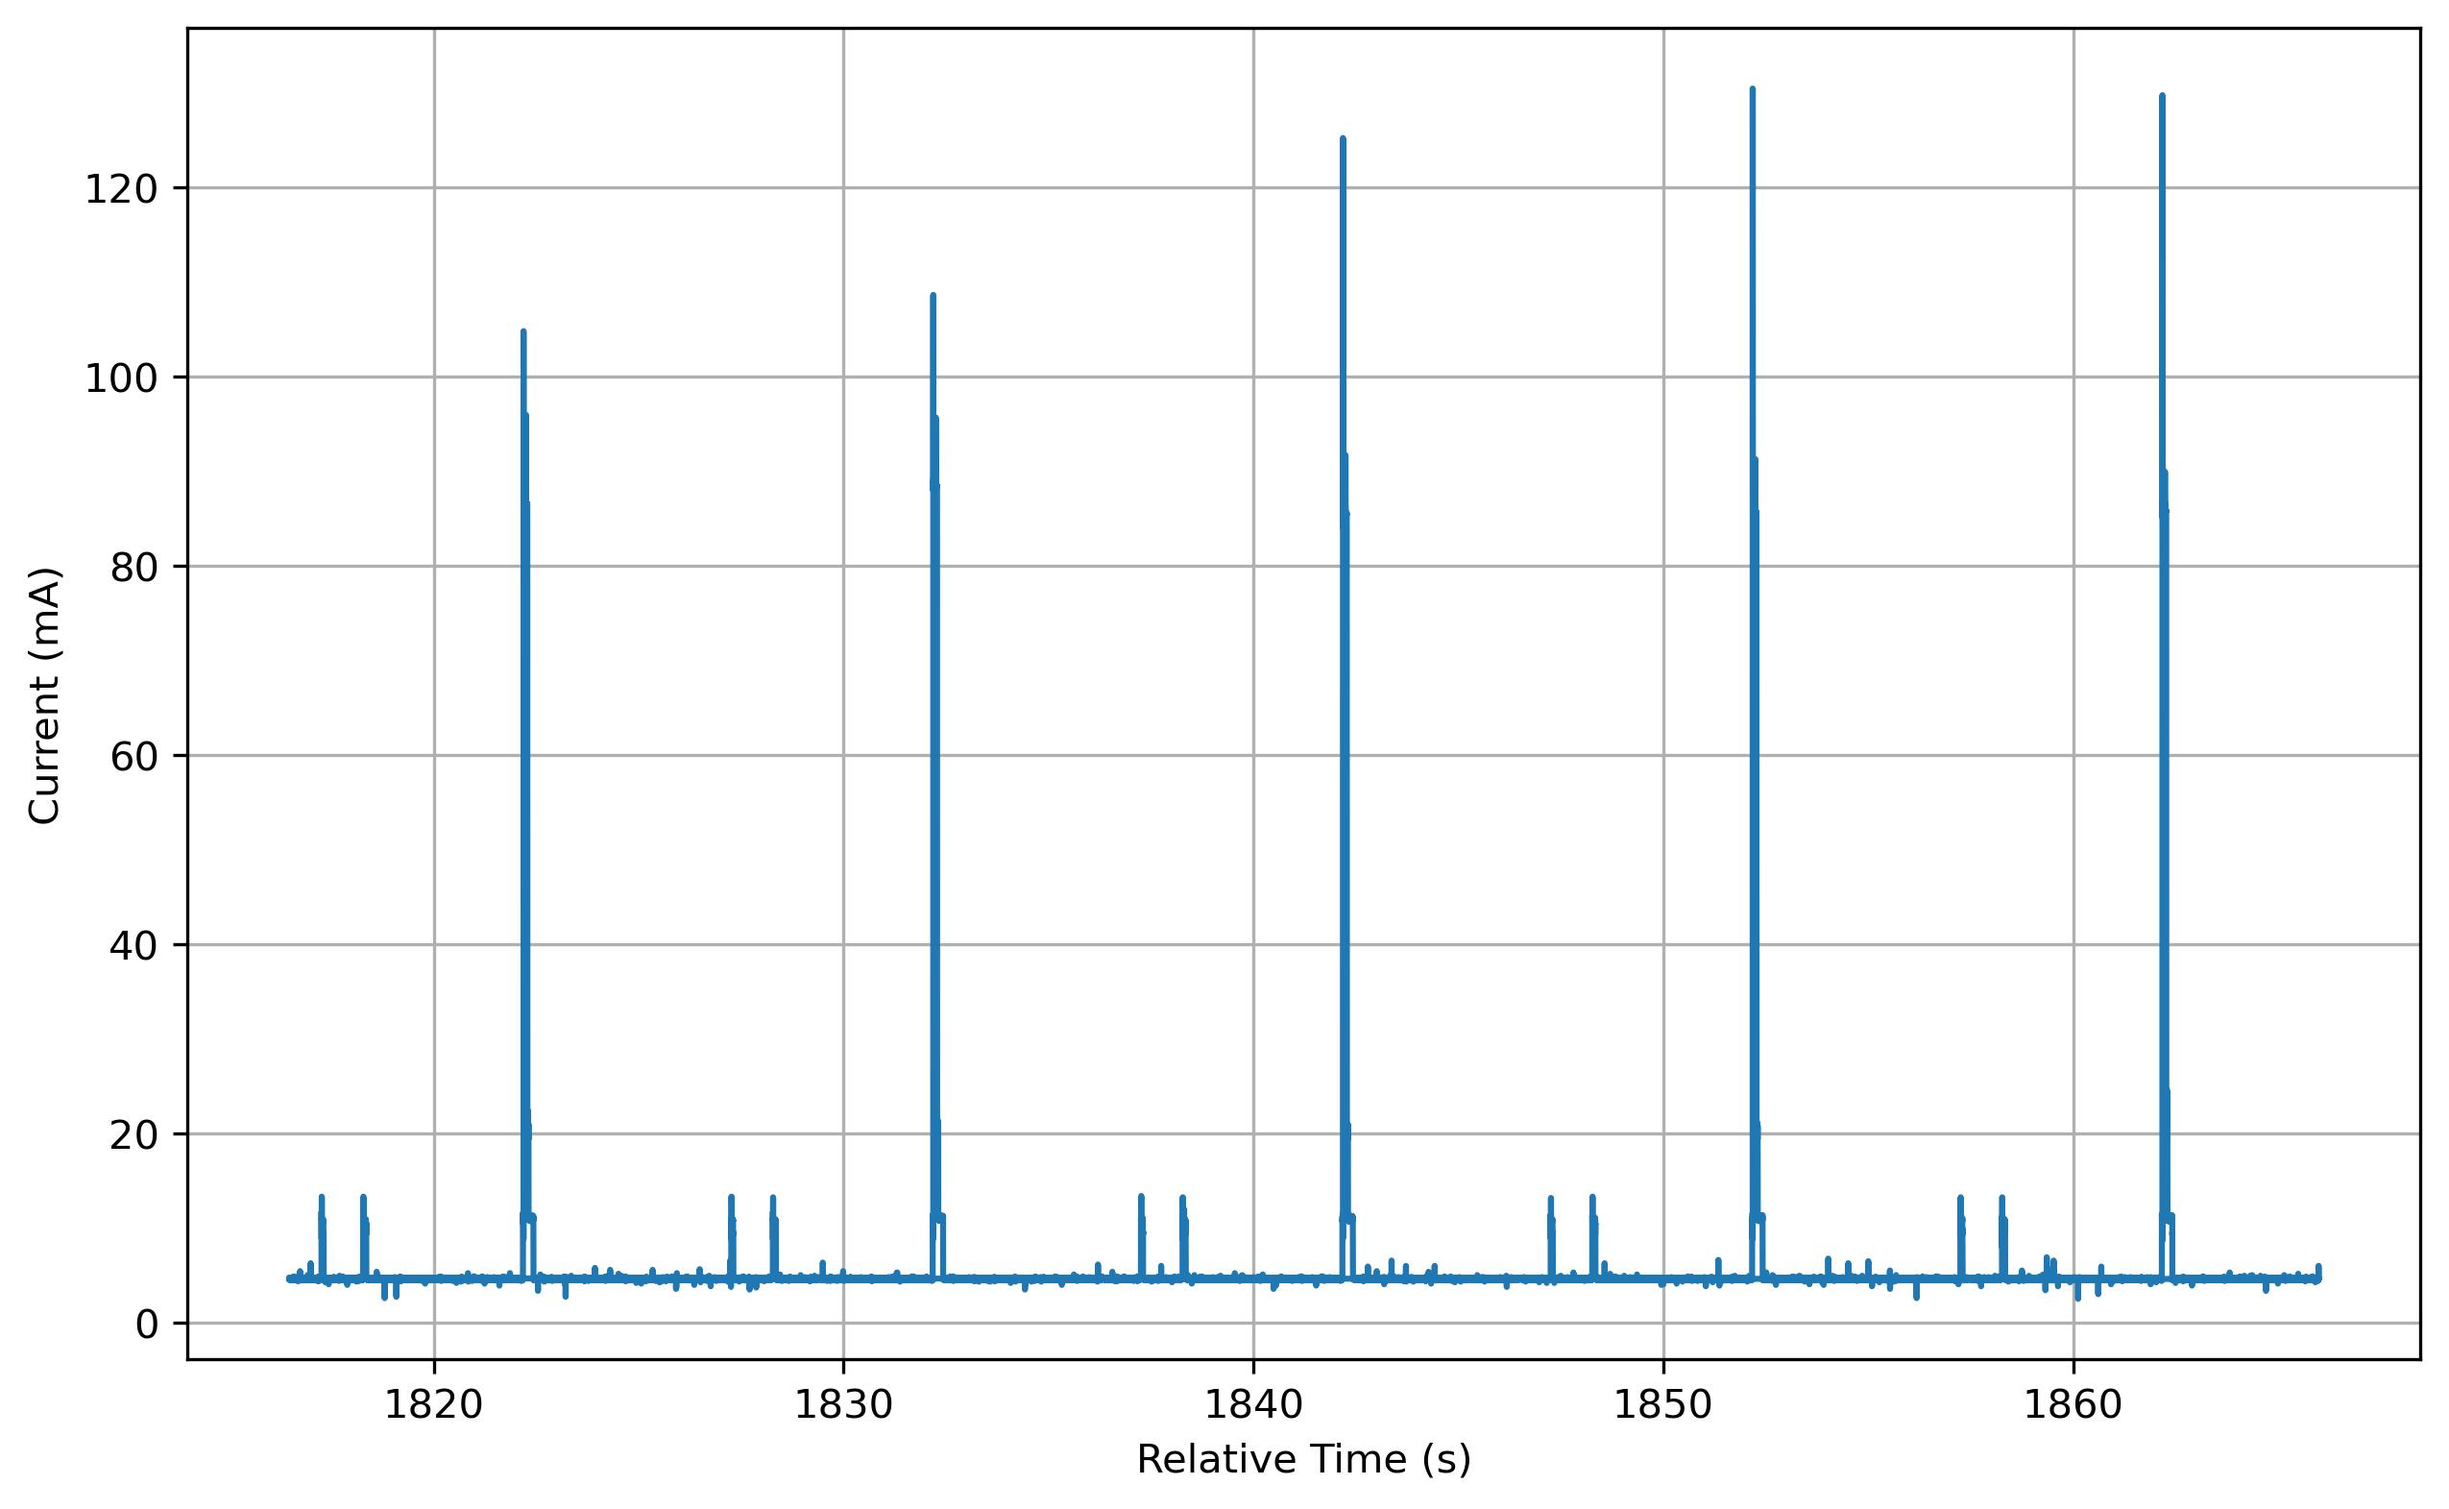
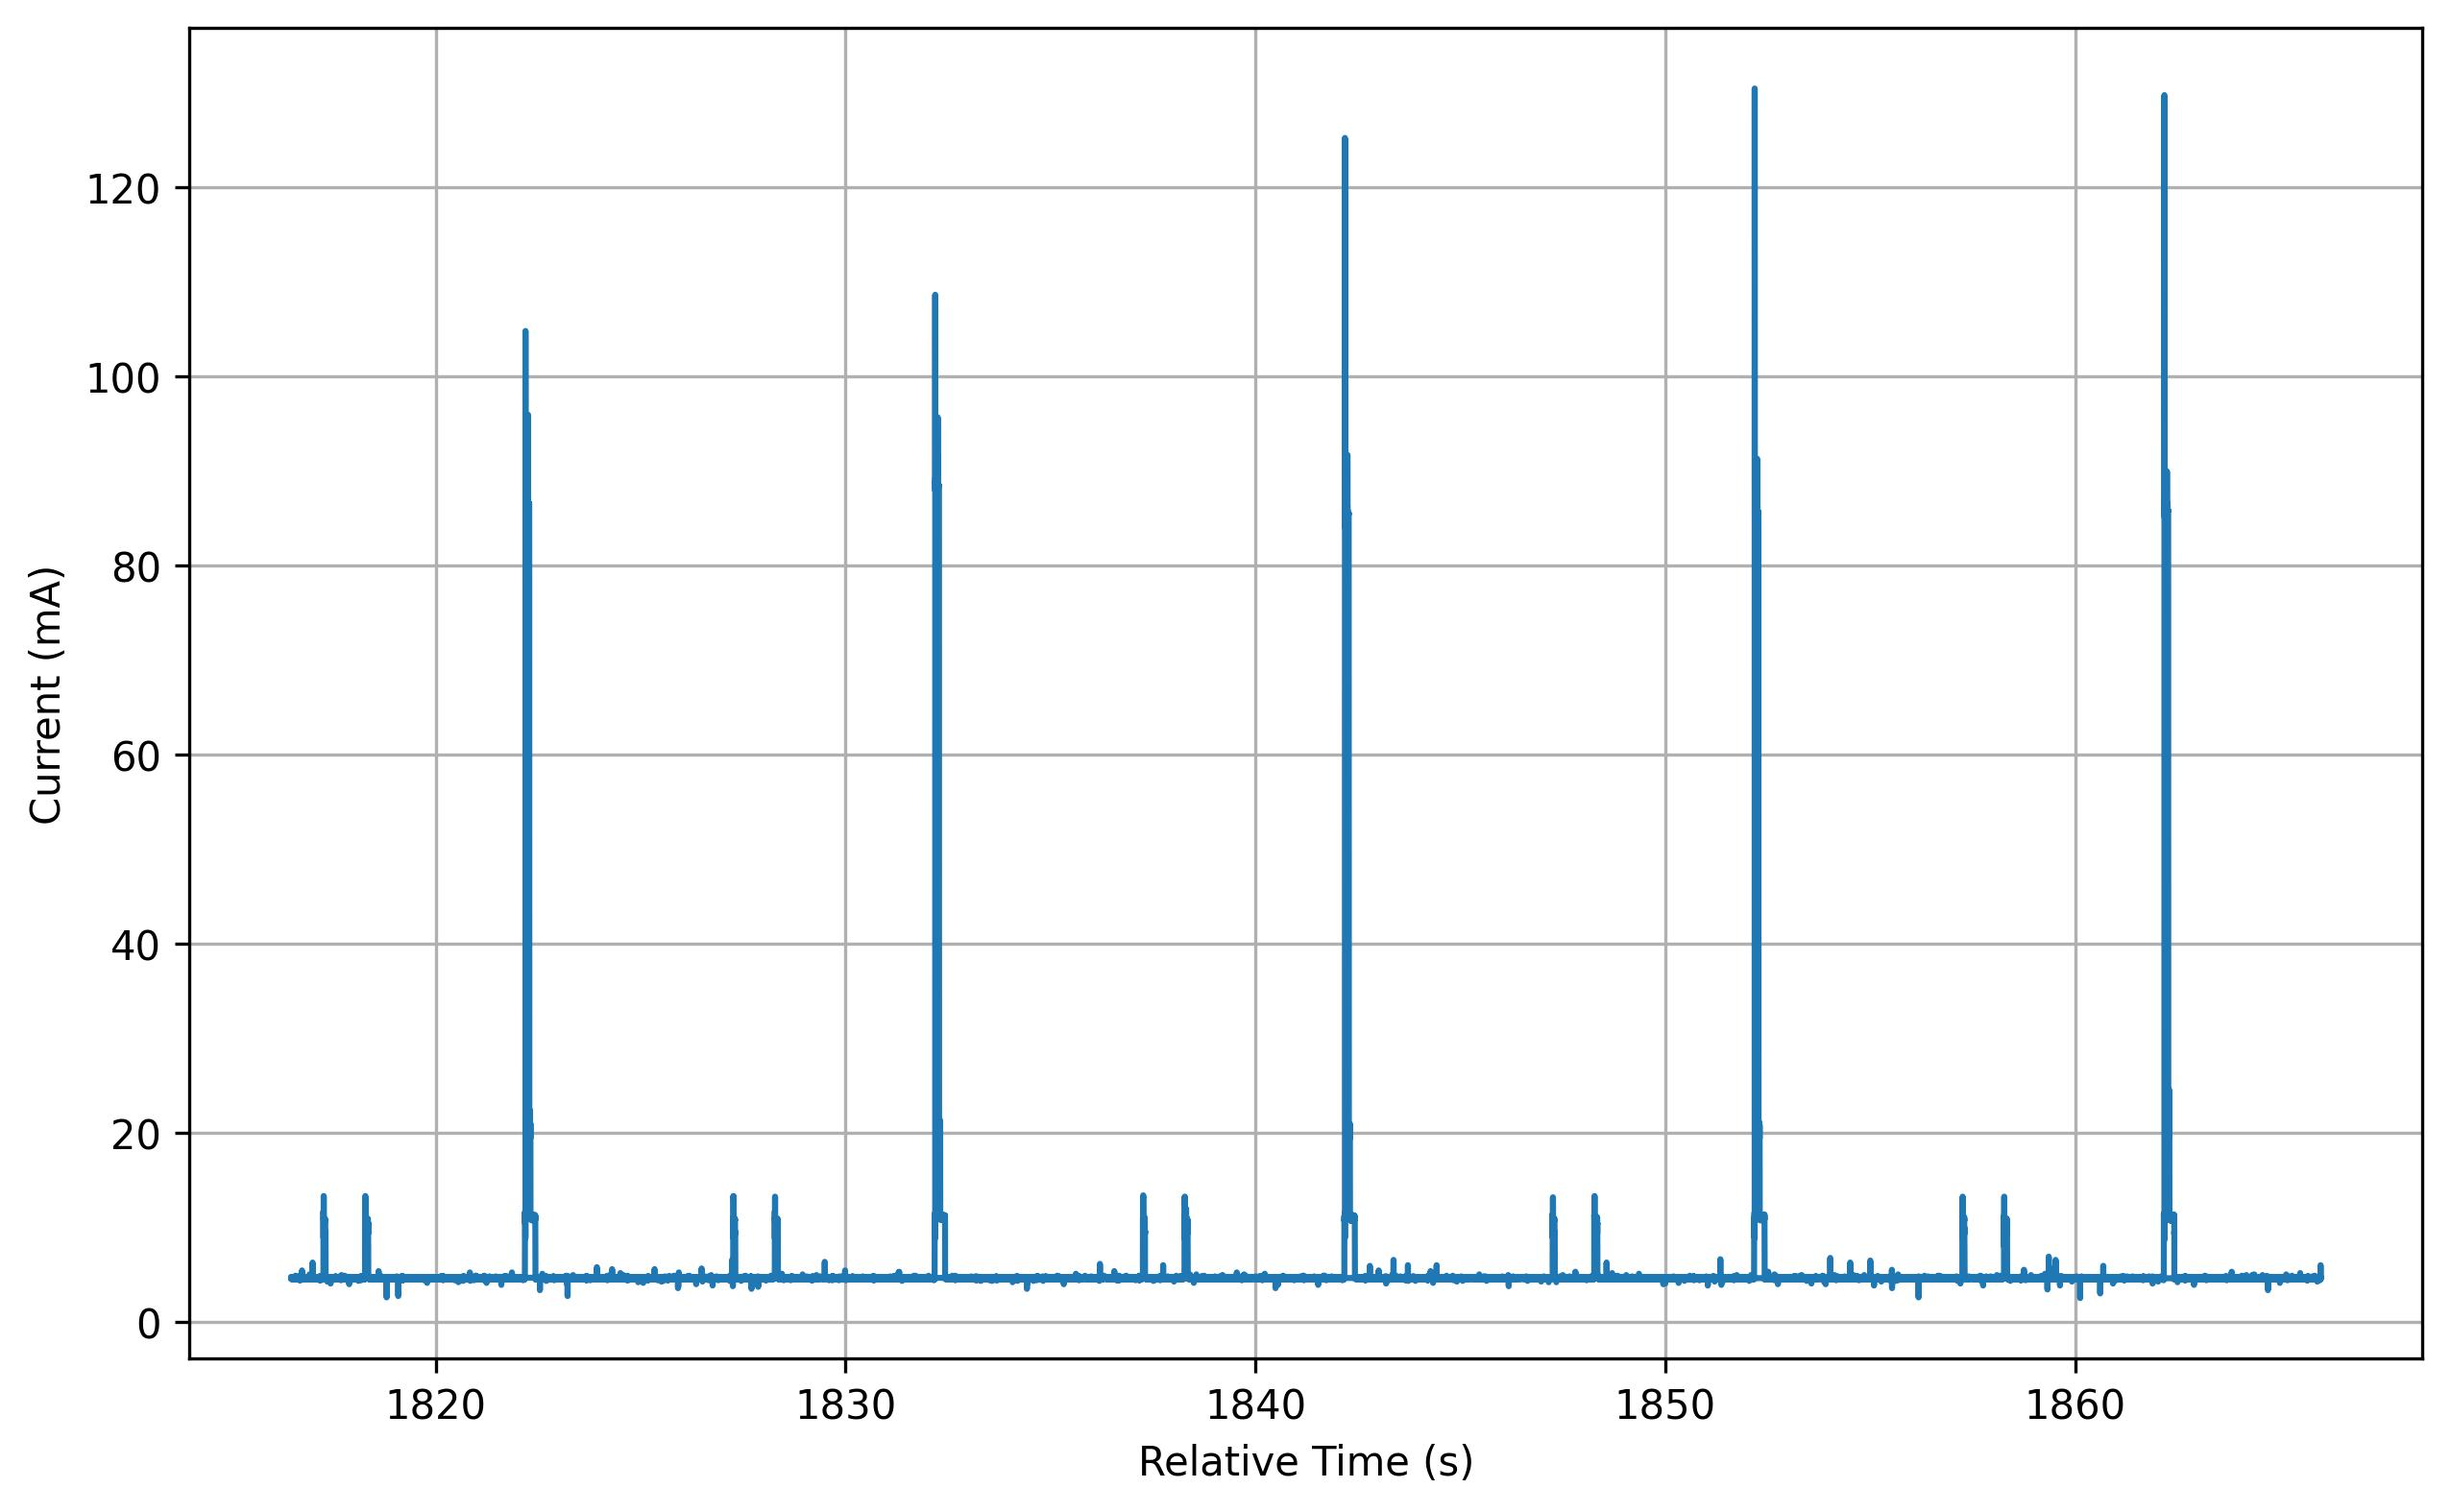
Added tx and rx ranges for metrics

diff --git a/extras/power_consumption/metrics.py b/extras/power_consumption/metrics.py
@@ -11,7 +11,8 @@ RANGES = {
     "overall": (0., 200.),
     "idle": (0., 10.),
     "measure": (10., 20.),
-    "comm": (80., 200.),
+    "tx": (80., 200.),
+    "rx": (16, 30),
 }
 
 def calculate_metrics(df: pd.DataFrame) -> dict:

diff --git a/CHANGELOG.md b/CHANGELOG.md
@@ -25,6 +25,7 @@ firmware versions for a hardware version.
 - Removed `test_ads` from the standard internal test suite since the ADS1219 is not built into the >=v3.0.0 ENTS boards anymore [#369](pr369).
 - Adjusted ESP32 partition table to expand program flash by reducing file system space [#369](pr369).
 - CI/CD pipeline linting and python version fixed [#384](pr384).
+- Updated `metrics.py` with tx and rx [#385](pr385)
 - Enabled merge queue [#386](pr386).
 
 [pr351]: https://github.com/jlab-sensing/ENTS-node-firmware/pull/351
@@ -33,6 +34,7 @@ firmware versions for a hardware version.
 [pr362]: https://github.com/jlab-sensing/ENTS-node-firmware/pull/362
 [pr369]: https://github.com/jlab-sensing/ENTS-node-firmware/pull/369
 [pr384]: https://github.com/jlab-sensing/ENTS-node-firmware/pull/384
+[pr385]: https://github.com/jlab-sensing/ENTS-node-firmware/pull/385
 [pr386]: https://github.com/jlab-sensing/ENTS-node-firmware/pull/386
 
 ## [2.3.12] - 2026-08-19
